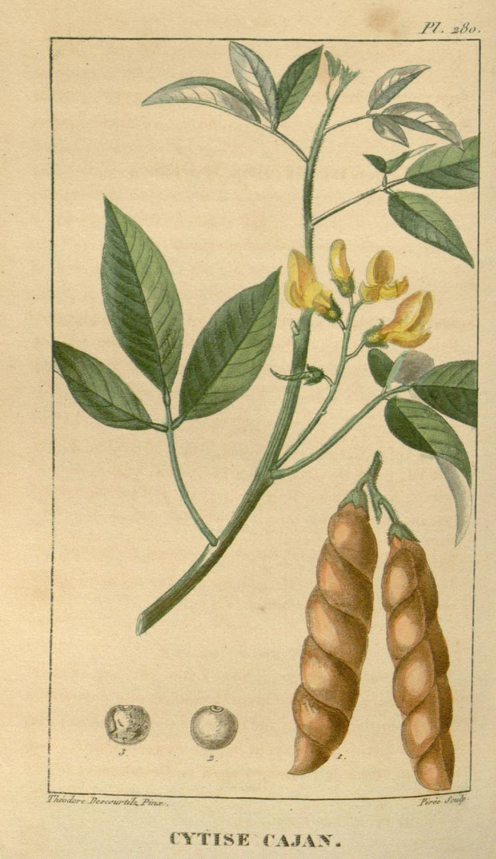
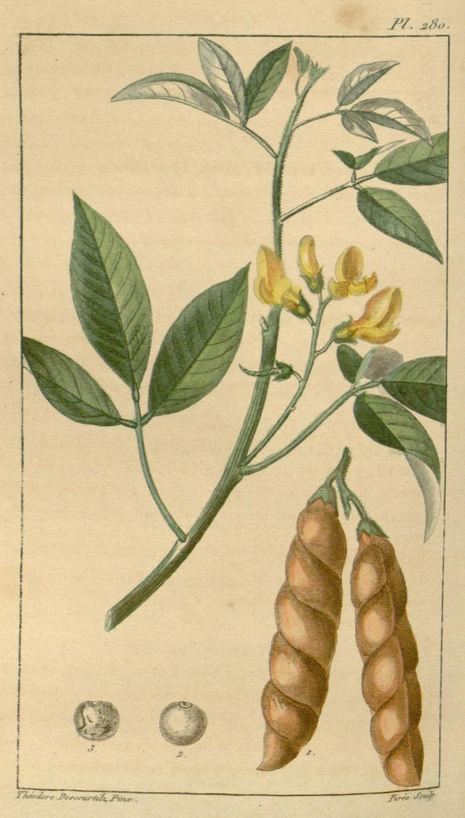
Add image name suffix function

diff --git a/image_manipulation.py b/image_manipulation.py
@@ -2,9 +2,12 @@ from PIL import Image
 import pathlib
 import pandas as pd
 
+imageSuffixes = ['tif','jpeg','jpg','png','webp','gif']
+
 def give_image_rounded_corners(new_filepath, original_filepath, corner_mask_filepath, image_name):
 
-    file_name = original_filepath + image_name
+    file_name = getFileNameWithSuffix(original_filepath, image_name)
+
     try:
         image = Image.open(pathlib.Path(file_name)) 
         corner_mask = Image.open(pathlib.Path(corner_mask_filepath))
@@ -17,19 +20,31 @@ def give_image_rounded_corners(new_filepath, original_filepath, corner_mask_file
     except:
         print(f"Something went wrong with giving the {file_name} image rounded corners. Rounded corners skipped.")
 
+def getFileNameWithSuffix(original_filepath, image_name) -> str:
+    if "." in image_name :
+            return original_filepath + image_name
+
+    file_name = original_filepath + image_name
+    for suffix in imageSuffixes:
+        if pathlib.Path(file_name + suffix).exists():
+            file_name += suffix
+
+    return file_name
+
 
 def make_images_transparent(filepath, image_name, alpha : int):
 
+    full_file_name = getFileNameWithSuffix(filepath, image_name)
     try:
-        back_image = Image.open(pathlib.Path(filepath + image_name)) 
+        back_image = Image.open(pathlib.Path(full_file_name)) 
         back_image = back_image.convert("RGBA")
         back_image.putalpha(alpha)  
 
         if image_name.split('.')[1] != 'png':
             image_name = image_name.split('.')[0] + ".png"
-        back_image.save(pathlib.Path(filepath + image_name))
+        back_image.save(pathlib.Path(full_file_name))
     except:
-        print(f"Something went wrong with making the {filepath + image_name} image transparent. A blank page will be used instead of this image in the output pdf. Please check your database.csv and image names and try again.")
+        print(f"Something went wrong with making the {full_file_name} image transparent. A blank page will be used instead of this image in the output pdf. Please check your database.csv and image names and try again.")
 
 
 if __name__ == "main":

diff --git a/flashcard_creator.py b/flashcard_creator.py
@@ -233,8 +233,9 @@ def add_family_name(internal_padding, font, row, top_padding, bottom_padding, fo
     table = FixedColumnWidthTable(number_of_columns=1, number_of_rows=table_row_count)
     family_name = clean_text(str(row['familyName'])).upper()
     exemplar = clean_text(str(row['familyExemplar']))
+    exemplar = ((' (' + exemplar + ' family)').upper() if exemplar != 'nan' else '')
 
-    family_name_and_exemplar = family_name + ((' (' + exemplar + ' family)').upper() if exemplar != 'nan' else '')
+    family_name_and_exemplar = family_name + exemplar
     table.append_layout_element(Paragraph(
         family_name_and_exemplar,
         font_color=X11Color.BLACK,